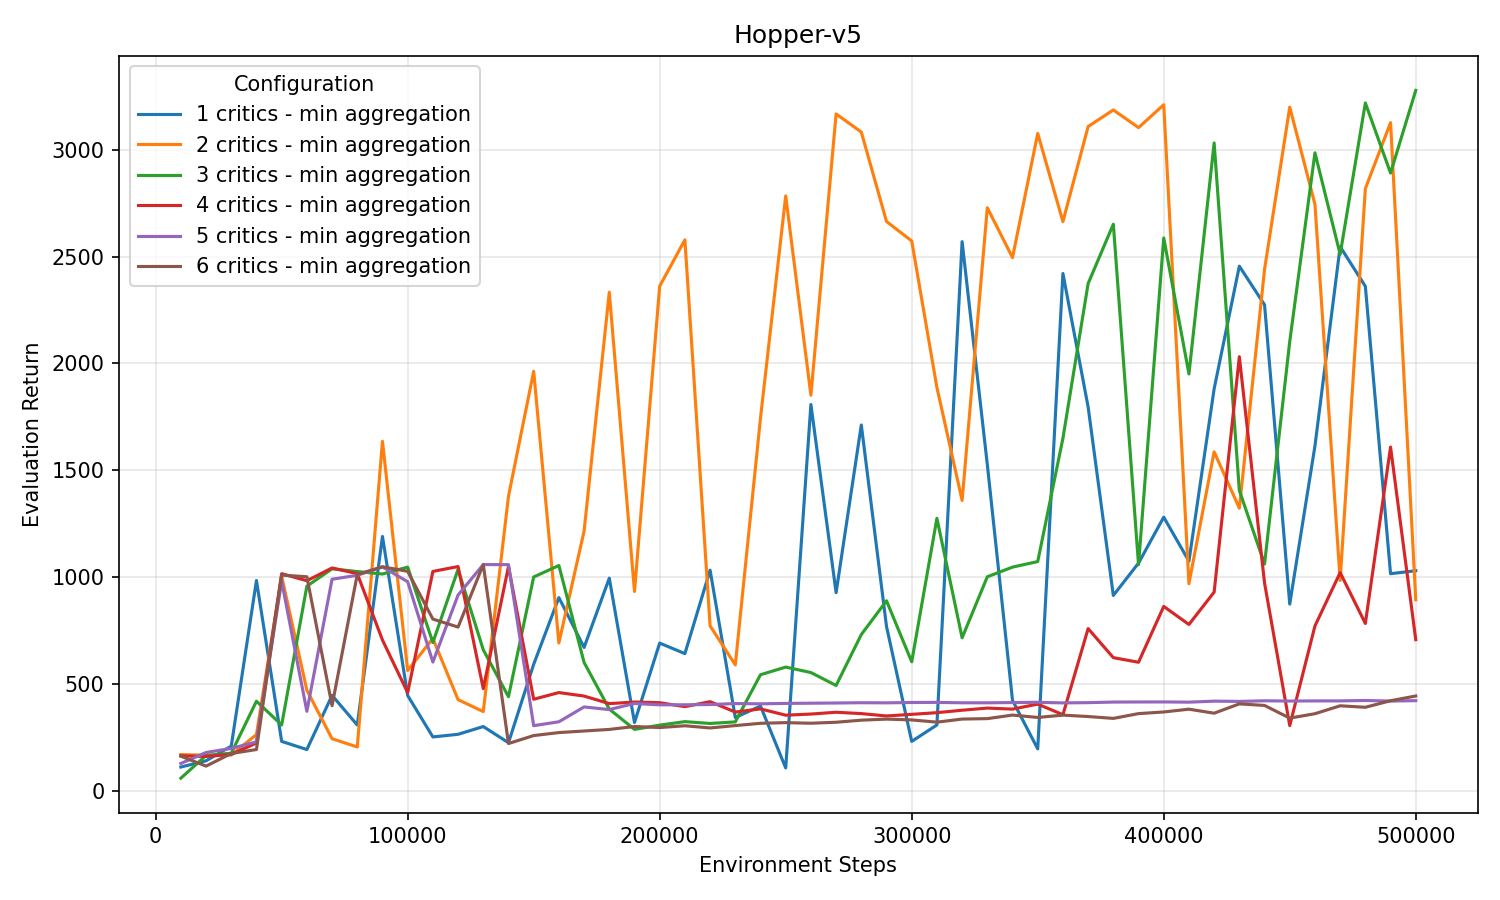
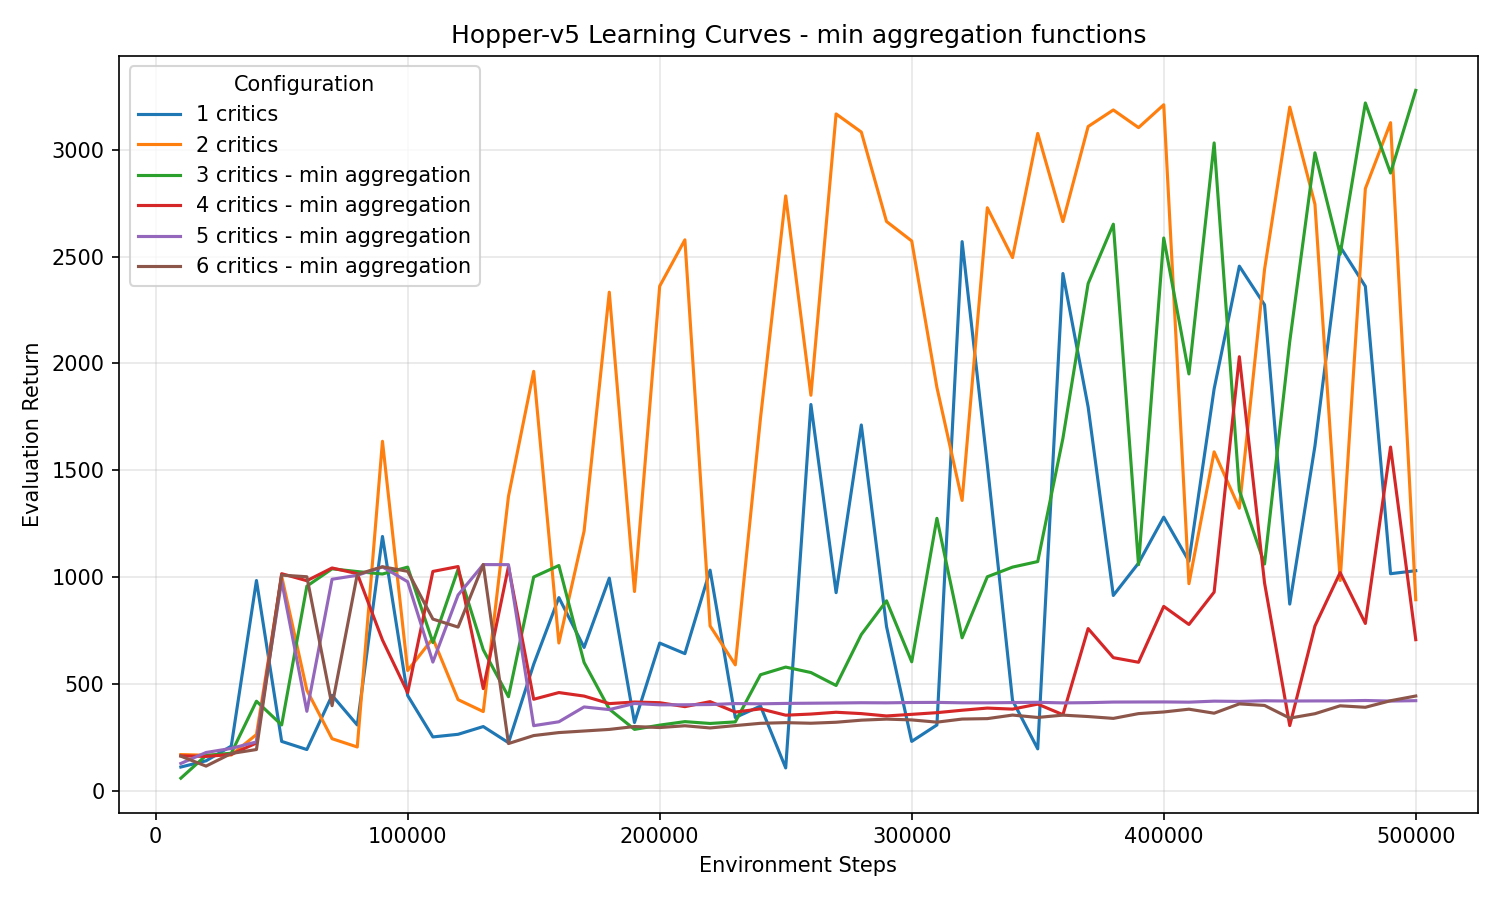
revised plotting so that lines with 1 or 2 critics are aggregation agnostic

Changed region(s): [[0.3067, 0.0311, 0.7667, 0.0622], [0.184, 0.1244, 0.3067, 0.1867]]

diff --git a/plot_learning_curves.py b/plot_learning_curves.py
@@ -46,7 +46,11 @@ def collect_runs(log_dir):
 
         metadata = match.groupdict()
         env = metadata["env"]
-        label = f"{metadata['num_qs']} critics - {metadata['aggregation_function']} aggregation"
+        if metadata["num_qs"] in {"1", "2"}:
+            # For 1 or 2 critics, the aggregation function is not relevant, so we can ignore it in the label
+            label = f"{metadata['num_qs']} critics"
+        else:
+            label = f"{metadata['num_qs']} critics - {metadata['aggregation_function']} aggregation"
         seed = metadata["seed"]
 
         csv_path = os.path.join(log_dir, name)
@@ -58,6 +62,7 @@ def collect_runs(log_dir):
                 "aggregation": metadata["aggregation_function"],
                 "steps": steps,
                 "values": values,
+                "num_qs": int(metadata["num_qs"]),
             }
         )
 
@@ -113,8 +118,10 @@ def make_plots(grouped_runs, output_dir, aggregation_filter=None):
 
         for label in sorted(label_runs.keys()):
             aggregation = label_runs[label][0]["aggregation"]
-            if aggregation_filter is not None and aggregation not in aggregation_filter:
-                continue
+
+            if label_runs[label][0]["num_qs"] > 2: # Check for runs with only 1 or 2 critics since the aggregation function is not relevant for those cases
+                if aggregation_filter is not None and aggregation not in aggregation_filter: # Apply aggregation filter if specified, but only for runs with more than 2 critics
+                    continue
 
             runs = label_runs[label]
             steps, means, stds = aggregate_by_step(runs)
@@ -131,7 +138,7 @@ def make_plots(grouped_runs, output_dir, aggregation_filter=None):
             continue
 
         env_name = env.replace("_", "-")
-        plt.title(env_name)
+        plt.title(f"{env_name} Learning Curves - {','.join(aggregation_filter) if aggregation_filter else 'all'} aggregation functions")
         plt.xlabel("Environment Steps")
         plt.ylabel("Evaluation Return")
         plt.legend(title="Configuration")
